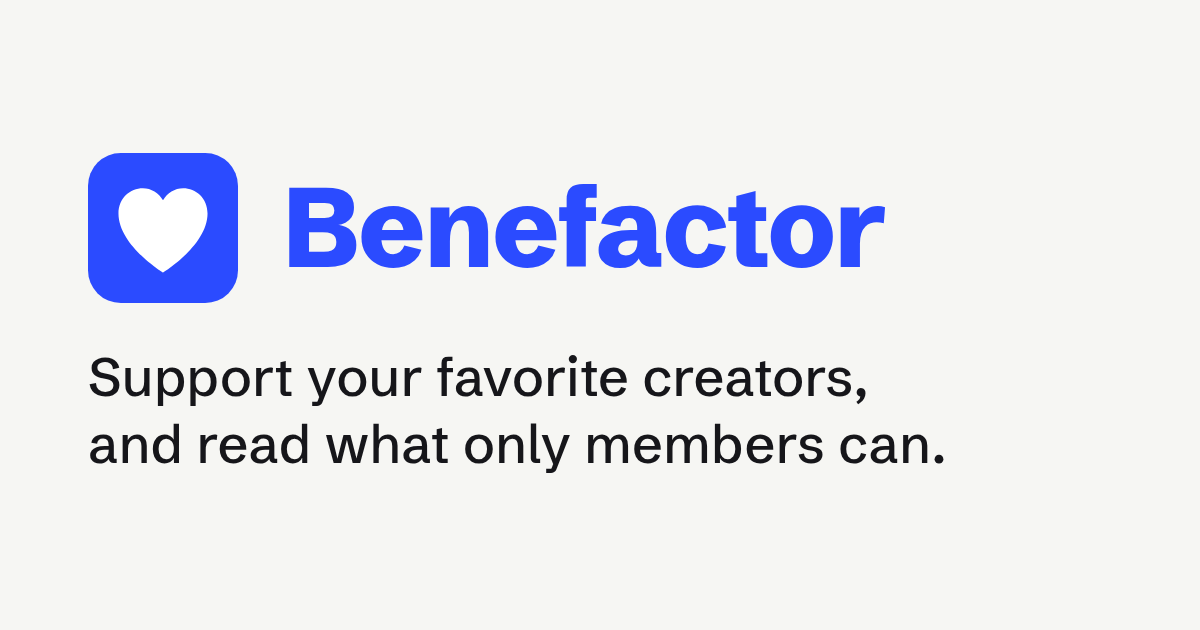
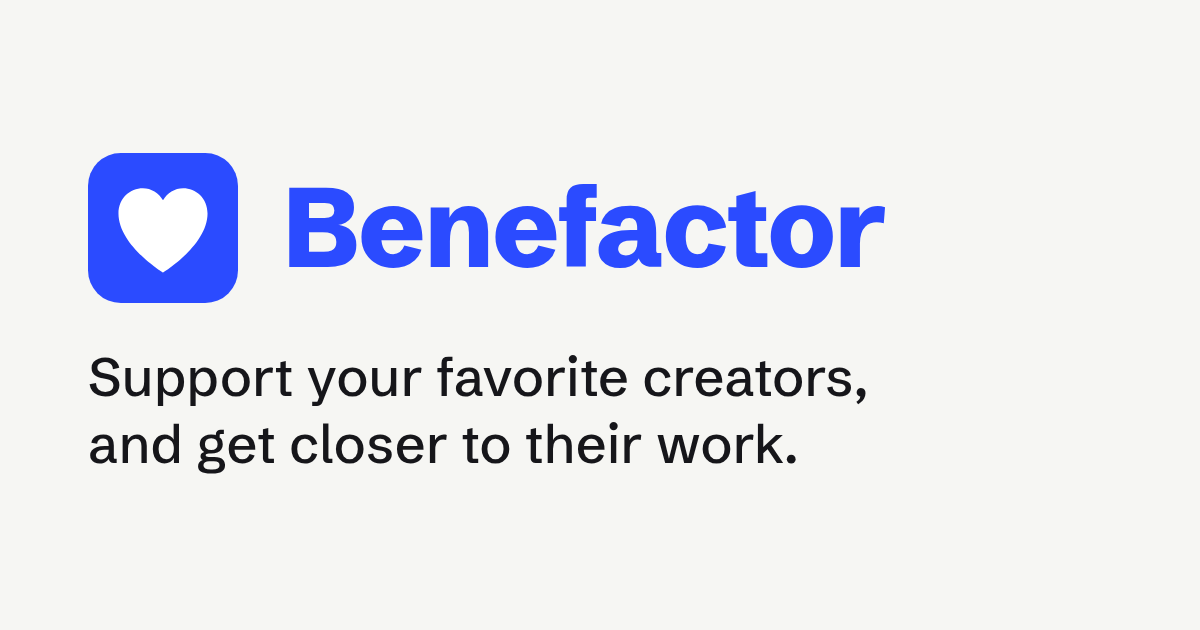
Update the share line

Changed region(s): [[0.1542, 0.6635, 0.8017, 0.754]]

diff --git a/index.html b/index.html
@@ -8,14 +8,14 @@
     <link rel="preconnect" href="https://fonts.googleapis.com">
     <link rel="preconnect" href="https://fonts.gstatic.com" crossorigin>
     <link href="https://fonts.googleapis.com/css2?family=Schibsted+Grotesk:wght@400;500;600;700;800&display=swap" rel="stylesheet">
-    <meta name="description" content="Support your favorite creators, and read what only members can.">
+    <meta name="description" content="Support your favorite creators, and get closer to their work.">
     <meta property="og:type" content="website">
     <meta property="og:title" content="Benefactor">
-    <meta property="og:description" content="Support your favorite creators, and read what only members can.">
+    <meta property="og:description" content="Support your favorite creators, and get closer to their work.">
     <meta property="og:image" content="https://bzr-sys.github.io/benefactor/og.png">
     <meta property="og:image:width" content="1200">
     <meta property="og:image:height" content="630">
-    <meta property="og:image:alt" content="Benefactor: Support your favorite creators, and read what only members can.">
+    <meta property="og:image:alt" content="Benefactor: Support your favorite creators, and get closer to their work.">
     <meta name="twitter:card" content="summary_large_image">
     <title>Benefactor</title>
   </head>
